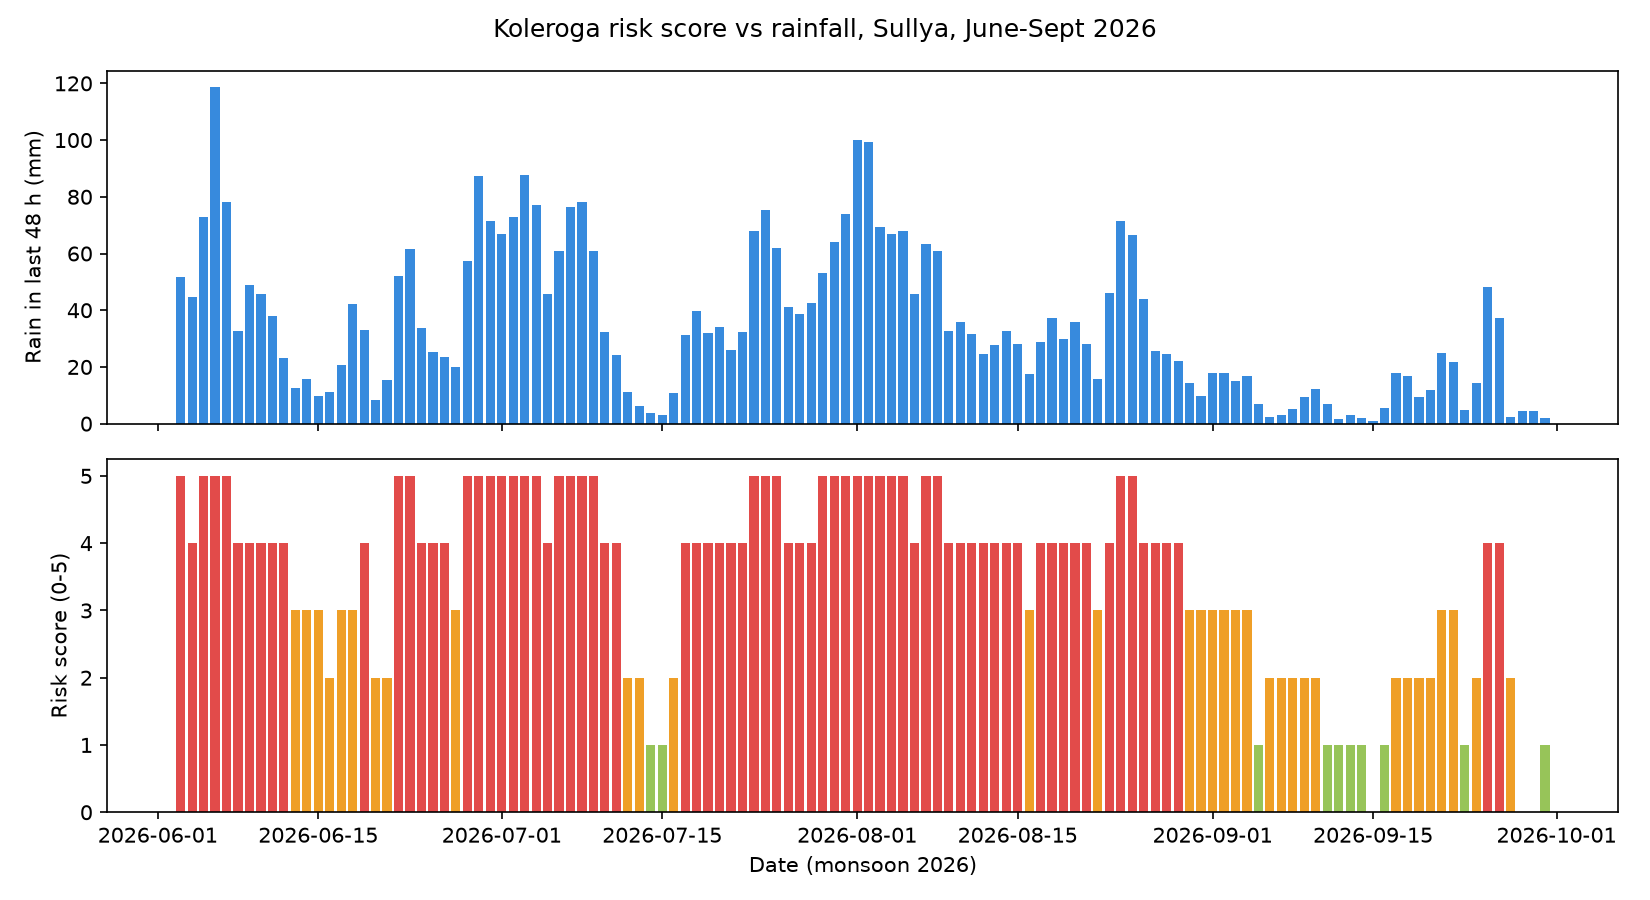
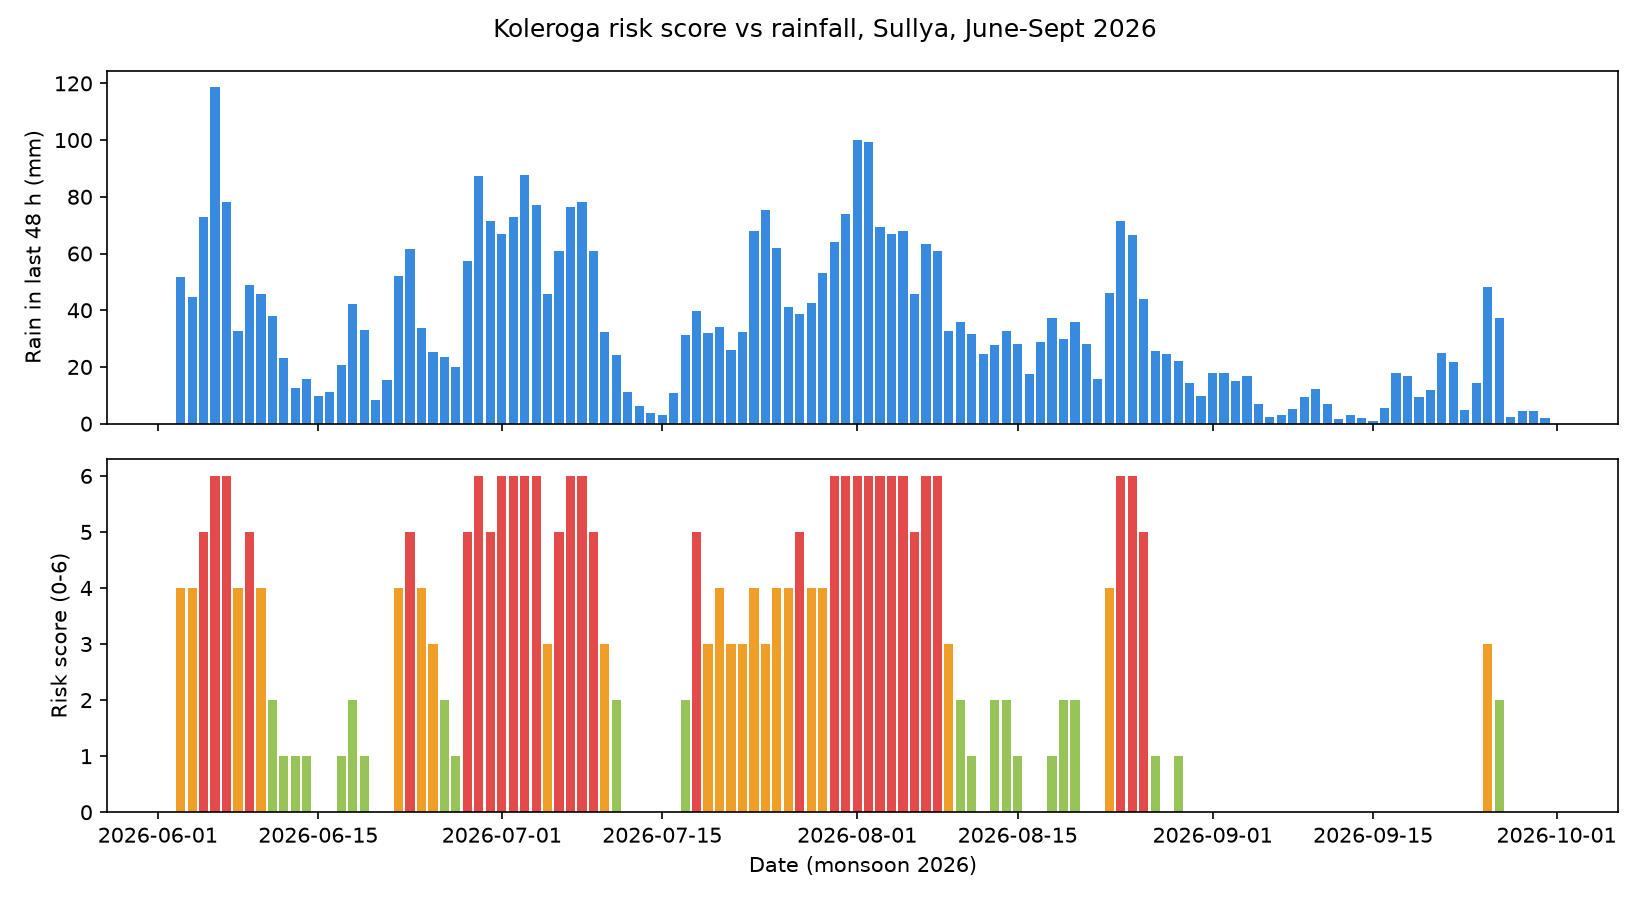
feat: retune risk thresholds using monsoon percentiles

Changed region(s): [[0.0927, 0.5289, 0.5255, 0.9022], [0.5564, 0.5911, 0.9582, 0.9022]]

diff --git a/backend/risk.py b/backend/risk.py
@@ -1,35 +1,43 @@
 import pandas as pd
 
-# Placeholder thresholds. Verify them with a KVK officer or farmer later.
-HUMIDITY_WET = 90        # % humidity counted as "wet"
-WINDOW_HOURS = 48        # look back this many hours
-TEMP_RANGE = (20, 26)    # C, cool weather favors the disease
+WINDOW_HOURS = 48
+
+# Thresholds chosen from the 2026 monsoon data (about the 50th and 75th percentile).
+# (1 point at the first value, 2 points at the second.)
+# TODO: validate with a KVK officer or farmer.
+RAIN_HRS = (27, 37)    # hours with rain >= 0.2 mm in the window
+HUM95_HRS = (32, 36)   # hours with humidity >= 95%
+RAIN_MM = (31, 52)     # total rain in the window (mm)
+
+HIGH_SCORE = 5         # out of 6
+MEDIUM_SCORE = 3
+
+
+def _points(value, limits):
+    low, high = limits
+    if value >= high:
+        return 2
+    if value >= low:
+        return 1
+    return 0
 
 
 def calculate_risk(window: pd.DataFrame) -> dict:
-    """Score the last 48 hours of weather and return a risk level."""
-    wet = (window["relative_humidity_2m"] >= HUMIDITY_WET) | (window["precipitation"] > 0)
-    wet_hours = int(wet.sum())
+    """Score the last 48 hours of weather (0-6) and return a risk level."""
+    rain_hrs = int((window["precipitation"] >= 0.2).sum())
+    hum95_hrs = int((window["relative_humidity_2m"] >= 95).sum())
     rain_mm = float(window["precipitation"].sum())
     avg_temp = float(window["temperature_2m"].mean())
 
-    score = 0
-    if wet_hours >= 36:
-        score += 2
-    elif wet_hours >= 24:
-        score += 1
+    score = (
+        _points(rain_hrs, RAIN_HRS)
+        + _points(hum95_hrs, HUM95_HRS)
+        + _points(rain_mm, RAIN_MM)
+    )
 
-    if rain_mm >= 50:
-        score += 2
-    elif rain_mm >= 20:
-        score += 1
-
-    if TEMP_RANGE[0] <= avg_temp <= TEMP_RANGE[1]:
-        score += 1
-
-    if score >= 4:
+    if score >= HIGH_SCORE:
         level = "High"
-    elif score >= 2:
+    elif score >= MEDIUM_SCORE:
         level = "Medium"
     else:
         level = "Low"
@@ -37,14 +45,19 @@ def calculate_risk(window: pd.DataFrame) -> dict:
     return {
         "level": level,
         "score": score,
-        "wet_hours": wet_hours,
+        "rain_hrs": rain_hrs,
+        "hum95_hrs": hum95_hrs,
         "rain_mm": round(rain_mm, 1),
         "avg_temp": round(avg_temp, 1),
     }
 
 
+def should_alert(previous_level: str, level: str) -> bool:
+    """Alert only when risk rises to High, not on every High day."""
+    return level == "High" and previous_level != "High"
+
+
 if __name__ == "__main__":
     df = pd.read_csv("weather_sample.csv", parse_dates=["time"])
     df = df[df["time"] <= pd.Timestamp.now()]   # ignore forecast hours
-    latest = df.tail(WINDOW_HOURS)
-    print(calculate_risk(latest))
+    print(calculate_risk(df.tail(WINDOW_HOURS)))

diff --git a/backend/backtest.py b/backend/backtest.py
@@ -34,7 +34,8 @@ for day in pd.date_range("2026-06-03", "2026-09-30"):
     rows.append(result)
 
 res = pd.DataFrame(rows)
-res.to_csv("risk_results_2026.csv", index=False)
+res["alert"] = (res["level"] == "High") & (res["level"].shift(1) != "High")
+print("Alerts sent:", int(res["alert"].sum()))
 print(res["level"].value_counts())
 
 colors = {"Low": "#97C459", "Medium": "#EF9F27", "High": "#E24B4A"}
@@ -42,7 +43,7 @@ fig, (ax1, ax2) = plt.subplots(2, 1, figsize=(11, 6), sharex=True)
 ax1.bar(res["date"], res["rain_mm"], color="#378ADD")
 ax1.set_ylabel("Rain in last 48 h (mm)")
 ax2.bar(res["date"], res["score"], color=[colors[l] for l in res["level"]])
-ax2.set_ylabel("Risk score (0-5)")
+ax2.set_ylabel("Risk score (0-6)")
 ax2.set_xlabel("Date (monsoon 2026)")
 fig.suptitle("Koleroga risk score vs rainfall, Sullya, June-Sept 2026")
 plt.tight_layout()
